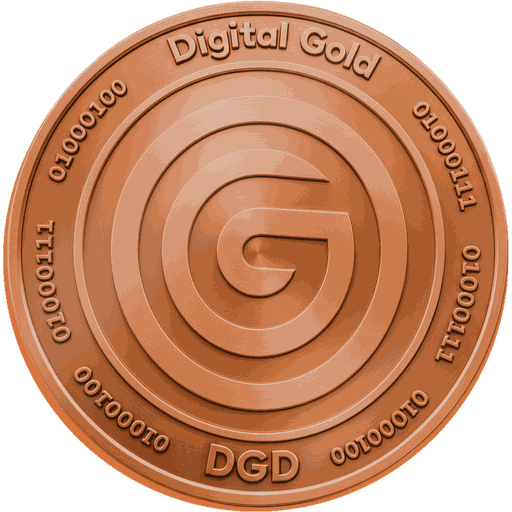
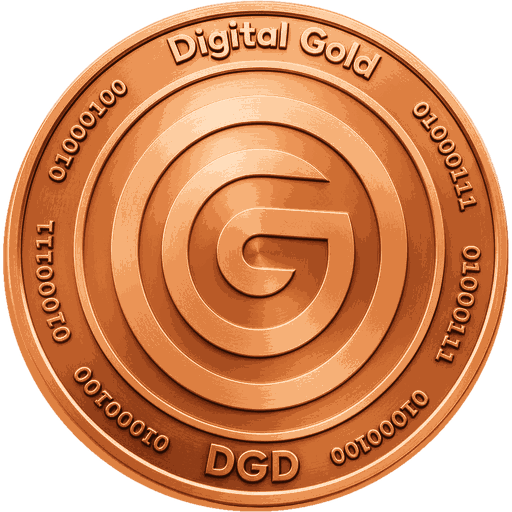
Copper coins made metallic from the gold render, synced from app b302546
TEN-GAMES.md records the copper colour ramp and that all three metals now
share one lighting.

diff --git a/arcade/v2/app/tools/gen_copper_coin.py b/arcade/v2/app/tools/gen_copper_coin.py
@@ -1,0 +1,44 @@
+"""Makes coin_copper.png: metallic copper, from the gold coin's render.
+
+The original copper render was flat and matte next to the gold: a narrow,
+dull brightness range with little specular (see tools/source/
+coin_copper_original.png). Like silver (gen_silver_coin.py) it is now made
+from the gold coin, the same design with full shading, but through a colour
+ramp rather than a flat tint: real copper runs from deep brown in shadow
+through saturated orange to pale, rosy highlights, and it is that climb
+toward pink-white at the top that makes it read as polished metal.
+
+    python tools/gen_copper_coin.py
+
+Source: tools/source/coin_gold_for_silver.png (the gold coin as it was).
+"""
+import os
+
+import numpy as np
+from PIL import Image
+
+HERE = os.path.dirname(os.path.abspath(__file__))
+SRC = os.path.join(HERE, "source", "coin_gold_for_silver.png")
+OUT = os.path.join(HERE, "..", "assets", "images", "coin_copper.png")
+
+# Gold brightness -> copper colour, a gradient map. Darker overall than
+# silver and gold, as copper is, with the top end lifting to rose.
+STOPS = [
+    (0, (18, 6, 2)),
+    (70, (62, 20, 6)),
+    (125, (128, 50, 18)),
+    (165, (182, 86, 36)),
+    (195, (218, 120, 58)),
+    (222, (244, 164, 100)),
+    (242, (255, 212, 170)),
+    (255, (255, 240, 222)),
+]
+
+a = np.array(Image.open(SRC).convert("RGBA")).astype(float)
+lum = a[:, :, :3] @ np.array([0.299, 0.587, 0.114])
+xs = [s[0] for s in STOPS]
+rgb = np.stack([np.interp(lum, xs, [s[1][c] for s in STOPS]) for c in range(3)], axis=-1)
+out = np.dstack([rgb, a[:, :, 3]]).astype(np.uint8)
+Image.fromarray(out, "RGBA").save(OUT)
+m = out[:, :, 3] > 200
+print("wrote", os.path.normpath(OUT), "median brightness", int(np.median(out[m][:, :3].mean(axis=1))))

diff --git a/arcade/TEN-GAMES.md b/arcade/TEN-GAMES.md
@@ -564,6 +564,15 @@ than gold, as silver should be, but with real shadow and highlight.
 The originals are kept in `tools/source/`. The file is also the
 leaderboard's second-place medal, which improves the same way.
 
+**Copper, the same day.** The copper render was flat and matte beside the
+new silver, with a narrow, dull range and little specular. It is now made
+from the gold coin too (`tools/gen_copper_coin.py`), but through a colour
+ramp rather than a tint: deep brown in shadow, saturated orange in the
+midtones, a warm glint at the top. That contrast is what makes copper read
+as polished metal. Median brightness is 137, darker than silver and gold as
+copper is. Only When Pigs Fly uses the copper coin. All three metals now
+share one lighting, so they read as a set.
+
 ### Music — 2026-09-27
 
 "Flight of the Swine", the owner's own track (2:36), is the game's music. It
